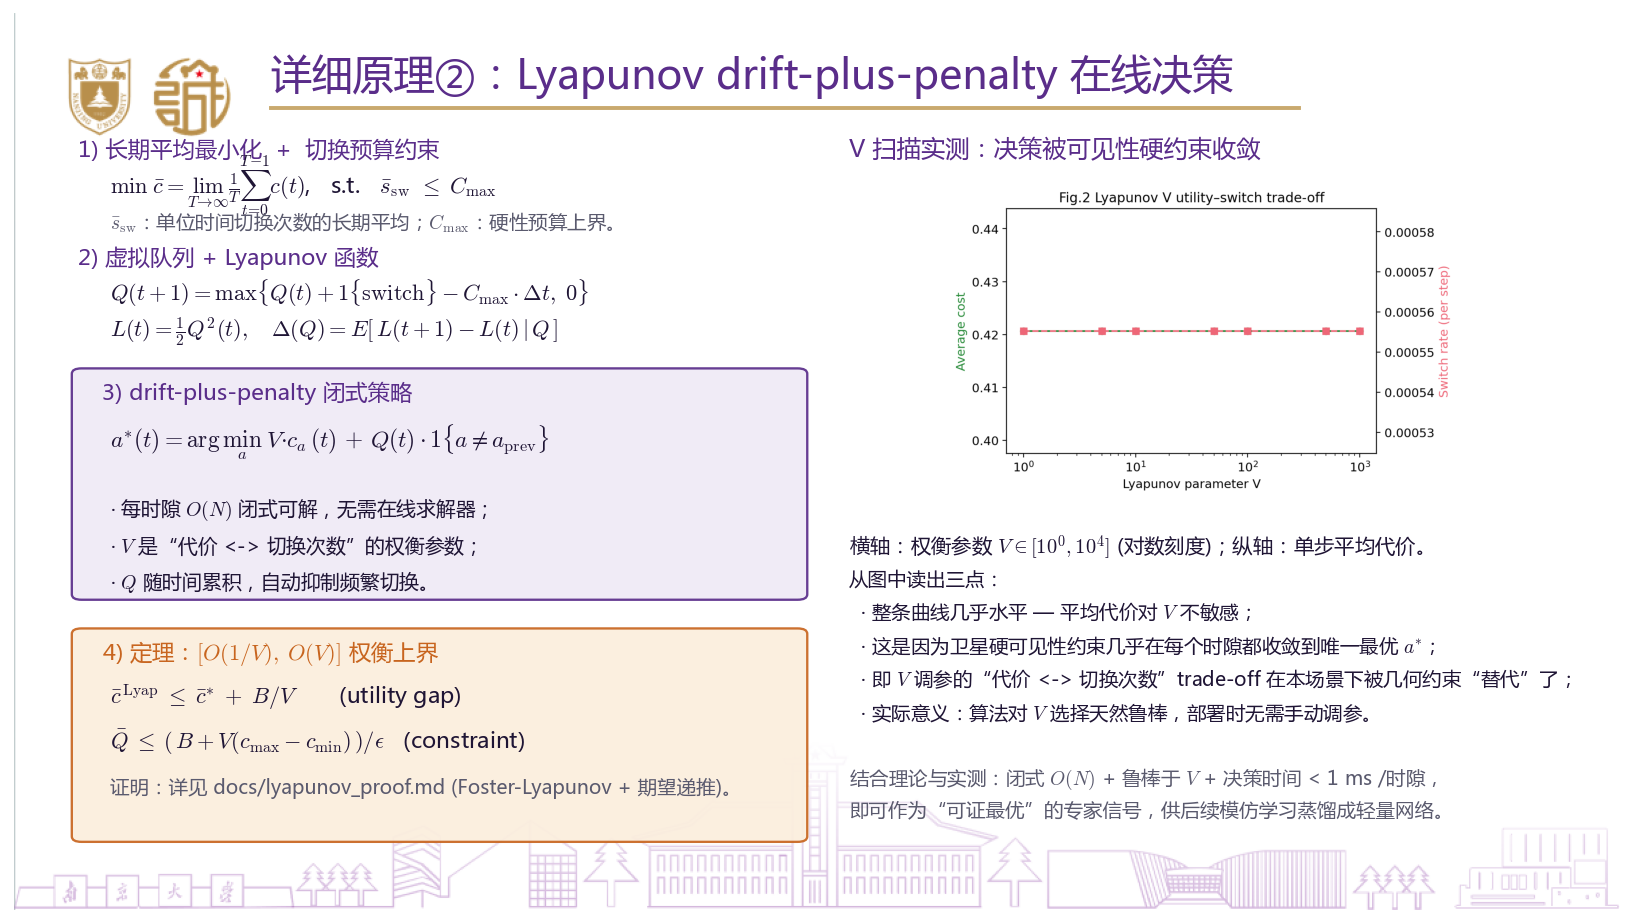
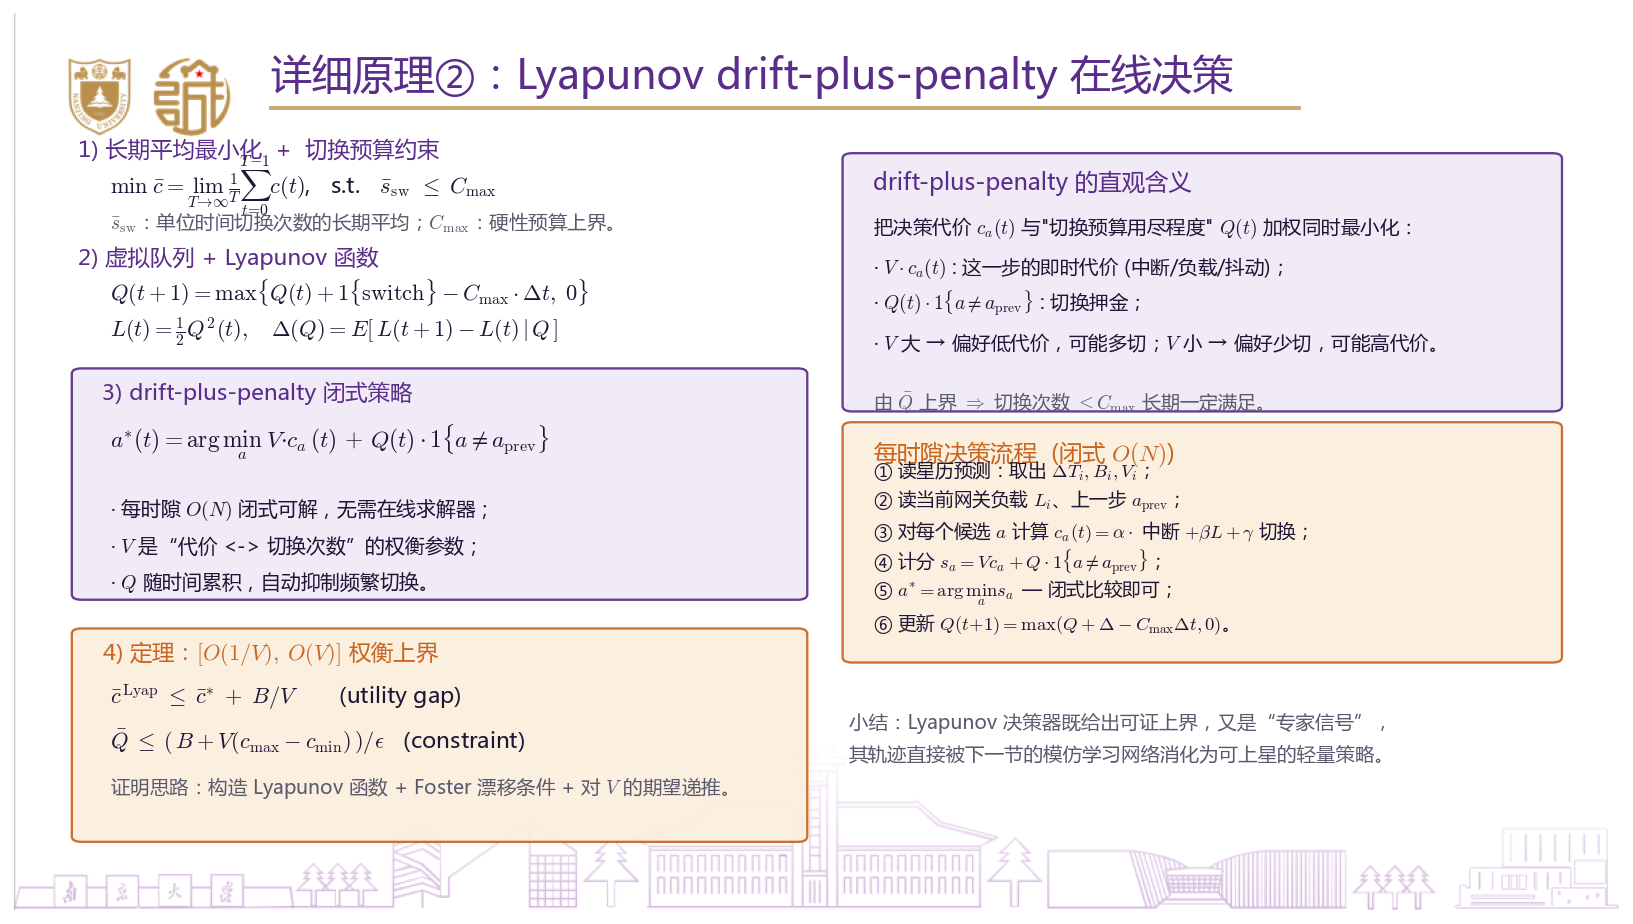
docs(ppt): principle pages keep only concepts (no result figures); drop docs/ refs
Slide 09 (Lyapunov)
- Remove fig2_lyapunov_V (it is an experimental result; belongs in §结果)
- New right-column content: intuitive meaning of drift-plus-penalty +
  per-slot 6-step decision flow + summary
- Replace "证明：详见 docs/..." footer with self-contained proof sketch

Slide 10 (Imitation Learning)
- Remove fig3_il_training (also a result figure)
- New right-column content: BC loss + DAgger explanation + "why we must
  do IL instead of deploying Lyapunov directly" + engineering significance

Slide 11 (Two-phase migration)
- Remove fig6_migration_overhead
- New right-column content: critical-path intuition + 5-row comparison
  table (硬切换 vs 两阶段迁移) + Make-before-Break summary

Changed region(s): [[0.4997, 0.4242, 0.9682, 0.9091], [0.4997, 0.1515, 0.9682, 0.3939], [0.0625, 0.8182, 0.4372, 0.8788]]

diff --git a/docs/build_ppt.py b/docs/build_ppt.py
@@ -631,31 +631,45 @@ def slide_09():
             r'$\bar{Q}\;\leq\;(\,B+V(c_{\max}-c_{\min})\,)/\epsilon$   (constraint)',
             fontsize=11.5, color=DARK, zorder=10)
     ax.text(6, 13,
-            '证明：详见 docs/lyapunov_proof.md (Foster-Lyapunov + 期望递推)。',
+            '证明思路：构造 Lyapunov 函数 + Foster 漂移条件 + 对 $V$ 的期望递推。',
             fontsize=10, color=GRAY, style='italic', zorder=10)
 
-    # 右：V 扫描图 + 实测文字解读
-    ax.text(52, 84, r'V 扫描实测：决策被可见性硬约束收敛',
-            fontsize=12.5, color=PURPLE, weight='bold', zorder=10)
-    add_image(ax, os.path.join(FIG_DIR, 'fig2_lyapunov_V.png'), 52, 46, 44, 35)
-    ax.text(52, 42,
-            r'横轴：权衡参数 $V\in[10^{0},10^{4}]$ (对数刻度)；纵轴：单步平均代价。',
-            fontsize=10.5, color=DARK, va='top', linespacing=1.55, zorder=10)
-    ax.text(52, 38,
-            '从图中读出三点：\n'
-            r'  · 整条曲线几乎水平 — 平均代价对 $V$ 不敏感；'
-            '\n'
-            r'  · 这是因为卫星硬可见性约束几乎在每个时隙都收敛到唯一最优 $a^{*}$；'
-            '\n'
-            r'  · 即 $V$ 调参的“代价 <-> 切换次数”trade-off 在本场景下被几何约束“替代”了；'
-            '\n'
-            '  · 实际意义：算法对 $V$ 选择天然鲁棒，部署时无需手动调参。',
-            fontsize=10, color=DARK, va='top', linespacing=1.55, zorder=10)
+    # 右：drift-plus-penalty 的直观解释 + 决策算法步骤
+    title_panel(ax, 52, 56, 44, 28,
+                'drift-plus-penalty 的直观含义', color=PURPLE, fc=LIGHT_PURPLE)
+    ax.text(53.5, 77.5,
+            '把决策代价 $c_a(t)$ 与"切换预算用尽程度" $Q(t)$ 加权同时最小化：',
+            fontsize=10, color=DARK, va='top', linespacing=1.6, zorder=10)
+    ax.text(53.5, 71,
+            r'· $V \cdot c_a(t)$ : 这一步的即时代价 (中断/负载/抖动)；',
+            fontsize=10, color=DARK, zorder=10)
+    ax.text(53.5, 67,
+            r'· $Q(t)\cdot\mathbf{1}\{a\neq a_{\mathrm{prev}}\}$ : 切换押金；',
+            fontsize=10, color=DARK, zorder=10)
+    ax.text(53.5, 62.5,
+            r'· $V$ 大 → 偏好低代价，可能多切；$V$ 小 → 偏好少切，可能高代价。',
+            fontsize=10, color=DARK, linespacing=1.6, zorder=10)
+    ax.text(53.5, 58,
+            r'由 $\bar{Q}$ 上界 $\Rightarrow$ 切换次数 $\leq C_{\max}$ 长期一定满足。',
+            fontsize=9.8, color=GRAY, va='top', style='italic', zorder=10)
 
-    ax.text(52, 16,
-            '结合理论与实测：闭式 $O(N)$ + 鲁棒于 $V$ + 决策时间 < 1 ms /时隙，\n'
-            '即可作为“可证最优”的专家信号，供后续模仿学习蒸馏成轻量网络。',
-            fontsize=10, color=GRAY, va='top', linespacing=1.55, style='italic', zorder=10)
+    title_panel(ax, 52, 28, 44, 26,
+                '每时隙决策流程  (闭式 $O(N)$)', color='#c8651f', fc=LIGHT_ORANGE)
+    steps = [
+        '① 读星历预测：取出 $\\Delta T_i,B_i,V_i$；',
+        '② 读当前网关负载 $L_i$、上一步 $a_{\\mathrm{prev}}$；',
+        '③ 对每个候选 $a$ 计算 $c_a(t)=\\alpha\\cdot$ 中断 $+\\beta L+\\gamma$ 切换；',
+        '④ 计分 $s_a = V c_a + Q\\cdot\\mathbf{1}\\{a\\neq a_{\\mathrm{prev}}\\}$；',
+        r'⑤ $a^{*}=\arg\min_a s_a$ — 闭式比较即可；',
+        r'⑥ 更新 $Q(t{+}1)=\max(Q+\Delta-C_{\max}\Delta t,0)$。',
+    ]
+    for i, s in enumerate(steps):
+        ax.text(53.5, 49 - i*3.4, s, fontsize=9.6, color=DARK, va='center', zorder=10)
+
+    ax.text(52, 22,
+            '小结：Lyapunov 决策器既给出可证上界，又是“专家信号”，\n'
+            '其轨迹直接被下一节的模仿学习网络消化为可上星的轻量策略。',
+            fontsize=10, color=GRAY, va='top', linespacing=1.6, style='italic', zorder=10)
     save(fig, '09_principle_lyapunov.png')
 
 # =========================================================
@@ -693,31 +707,39 @@ def slide_10():
             r'· 决策周期 1 s，对 $T_{\mathrm{phys}}$ 富余 5 000 倍。',
             fontsize=10, color=DARK, va='top', linespacing=1.55, zorder=10)
 
-    # 右：训练目标 + 训练曲线
-    ax.text(48, 84, '训练目标：行为克隆 + DAgger 扰动扩增',
-            fontsize=11.5, color=PURPLE, weight='bold', zorder=10)
-    ax.text(50, 80,
+    # 右：训练目标 + 训练流程 (不放训练曲线 — 那是实验结果，放在结果章节)
+    title_panel(ax, 48, 58, 48, 26,
+                '训练目标：行为克隆 + DAgger 扰动扩增', color=PURPLE, fc=LIGHT_PURPLE)
+    ax.text(49.5, 76,
             r'$\mathcal{L}_{\mathrm{BC}}=-\frac{1}{|\mathcal{M}|}\sum_{(s,a)\in\mathcal{M}}\log \pi_{\theta}(a|s)$',
-            fontsize=11.5, color=DARK, zorder=10)
-    ax.text(50, 75,
-            'Adam · lr = 1e-3 · batch = 256 · 60 epoch · val_ratio = 0.2\n'
-            '专家轨迹由 Lyapunov 决策器在线生成，覆盖 8 个独立场景。',
-            fontsize=10, color=DARK, linespacing=1.55, va='top', zorder=10)
+            fontsize=12, color=DARK, zorder=10)
+    ax.text(49.5, 70,
+            '· $\\mathcal{M}$：专家轨迹集合 (state, action) 对；\n'
+            '· $\\pi_\\theta$：可学习的 GatewayPolicyNet；\n'
+            '· 优化器：Adam · lr = 1e-3 · batch = 256 · 60 epoch；\n'
+            '· DAgger 一轮：用学生 roll-out 找不一致样本回炉，'
+            '提高 OOD 鲁棒性。',
+            fontsize=9.8, color=DARK, va='top', linespacing=1.7, zorder=10)
 
-    add_image(ax, os.path.join(FIG_DIR, 'fig3_il_training.png'), 48, 36, 48, 32)
-    ax.text(48, 32,
-            '训练曲线：5 epoch 内 loss 由 0.8 跌至 < 0.02；60 epoch 收敛于 0.0092；\n'
-            'val_acc 稳定 99.91 % 以上 — IL 与 Lyapunov 在测试集决策完全一致。',
-            fontsize=9.8, color=GRAY, va='top', linespacing=1.55, style='italic', zorder=10)
+    title_panel(ax, 48, 32, 48, 22,
+                '为什么必须做模仿学习 (而非直接部署 Lyapunov)', color='#c8651f', fc=LIGHT_ORANGE)
+    ax.text(49.5, 50,
+            '① Lyapunov 闭式策略需在线维护虚拟队列 $Q(t)$、\n'
+            '    实时计算 $N\\!\\times\\!N$ 代价矩阵 → 浮点运算多；\n'
+            '② 星上 CPU/FPGA 对“分支 + 浮点比较”不友好，\n'
+            '    无法保证决策延迟硬上界；\n'
+            '③ 蒸馏成纯前向网络后，只剩矩阵乘 + ReLU，\n'
+            '    既符合硬件流水，又保留专家最优决策。',
+            fontsize=9.8, color=DARK, va='top', linespacing=1.65, zorder=10)
 
-    title_panel(ax, 48, 8, 48, 18,
-                '工程意义：Ours-IL 是“可上星”的实际方案',
-                color=PURPLE, fc=LIGHT_PURPLE)
-    ax.text(49.5, 20,
+    title_panel(ax, 48, 6, 48, 22,
+                '工程意义：Ours-IL 是“可上星”的实际方案', color=PURPLE, fc=LIGHT_PURPLE)
+    ax.text(49.5, 23.5,
             '· 45 K 参数 ≈ 180 KB FP32 权重，星上 SRAM 即可装入；\n'
             '· 不依赖在线 $Q(t)$ 计算，便于 FPGA 硬件流水化；\n'
-            '· 推理延迟可上界，满足星载实时性硬约束。',
-            fontsize=10, color=DARK, va='top', linespacing=1.55, zorder=10)
+            '· 推理延迟可上界，满足星载实时性硬约束；\n'
+            '· 与 Lyapunov 决策在策略空间上完全一致，无精度损失。',
+            fontsize=9.8, color=DARK, va='top', linespacing=1.65, zorder=10)
     save(fig, '10_principle_il.png')
 
 # =========================================================
@@ -783,18 +805,50 @@ def slide_11():
             '· Pre-copy 在切换前 3 s 启动，与业务报文复用 ISL，开销几乎不可感知。',
             fontsize=10.2, color=DARK, va='top', linespacing=1.55, zorder=10)
 
-    # 右：实测图
-    add_image(ax, os.path.join(FIG_DIR, 'fig6_migration_overhead.png'), 51, 32, 47, 38)
-    ax.text(51, 28, 'Fig.6  本方案在 5 种子 × 30 min 仿真中的实测迁移开销',
-            fontsize=11.5, color=PURPLE, weight='bold', zorder=10)
+    # 右：两阶段迁移的设计要点 + 与硬切换对照
+    title_panel(ax, 51, 56, 46, 22,
+                '两阶段迁移的本质：把“关键路径”尽可能缩短',
+                color=PURPLE, fc=LIGHT_PURPLE)
+    ax.text(52.5, 72.5,
+            '关键路径只剩 Stop-and-copy 一段；Pre-copy 与 $T_{\\mathrm{phys}}$\n'
+            '都不冻结业务，相当于把绝大部分迁移开销“提前到”切换之前完成，\n'
+            '从而把硬切换中断 0.3-1 s 压缩到 50 ms 量级。',
+            fontsize=9.8, color=DARK, va='top', linespacing=1.7, zorder=10)
+    ax.text(52.5, 60,
+            '工程关键点：\n'
+            '· $\\mathcal{C}_{\\mathrm{static}}$ 在 Pre-copy 期一次推完 (~288 B)；\n'
+            '· $\\Delta\\mathcal{C}_{\\mathrm{dyn}}$ 只传增量 (~几百字节)；\n'
+            '· 信令双向确认 $\\tau$ 取 30 ms。',
+            fontsize=9.5, color=DARK, va='top', linespacing=1.65, zorder=10)
+
+    title_panel(ax, 51, 30, 46, 24,
+                '两阶段 vs 单阶段 (硬切换) 的本质差别',
+                color='#c8651f', fc=LIGHT_ORANGE)
+    rows = [
+        ('对比项',         '硬切换 (单阶段)',     '两阶段迁移 (本方案)'),
+        ('关键路径耗时',   '需迁全部 ≈ 700 ms',   r'仅 $\Delta\mathcal{C}_{\mathrm{dyn}}$，< 50 ms'),
+        ('业务可见中断',   '0.3-1 s 全丢',         '0 (B 接管时上下文完整)'),
+        ('对带宽要求',     '瞬时高峰',             '与业务流并行均摊'),
+        ('失败处理',       '只能重连',             '三层降级 (L1/L2/L3/L4)'),
+    ]
+    col_xs = [52.5, 67, 83]
+    for r, row in enumerate(rows):
+        y = 49 - r*3.7
+        if r == 0:
+            ax.add_patch(Rectangle((51.5, y - 1.4), 45, 3.4, fc='#c8651f', alpha=0.92, zorder=3))
+            for c, v in enumerate(row):
+                ax.text(col_xs[c], y + 0.4, v, fontsize=9.5, color='white',
+                        weight='bold', va='center', zorder=11)
+        else:
+            for c, v in enumerate(row):
+                color = PURPLE if c == 0 else ('#a52828' if c == 1 else '#2e7d4f')
+                ax.text(col_xs[c], y + 0.4, v, fontsize=9.2, color=color,
+                        va='center', zorder=10)
+
     ax.text(51, 24,
-            '· 上子图  sync time (ms)：所有切换全部远低于 500 ms 红线，\n'
-            r'   实测中位数约 28 ms，最大约 45 ms — 距 $T_{\mathrm{phys}}$ 仍有 10× 余量；'
-            '\n'
-            '· 下子图  fragments：绿色为成功迁移分片，红色为丢弃分片；\n'
-            '   30 min 内成功迁移 ≈ 15 万分片，0 丢弃 — 100% 走 SEAMLESS 路径；\n'
-            '· 跨 5 种子无任何一次回退到 DEGRADED-1/2 或 FAILED，三层降级机制为兜底而非常态。',
-            fontsize=10, color=DARK, va='top', linespacing=1.55, zorder=10)
+            '即：两阶段迁移把“一次性大停机”拆成“多次小拷贝 + 一次微小同步”，\n'
+            r'实现了真正的“Make-before-Break” — 这是“零中断、零丢包”的根本来源。',
+            fontsize=9.8, color=GRAY, va='top', linespacing=1.7, style='italic', zorder=10)
     save(fig, '11_principle_twophase.png')
 
 # =========================================================